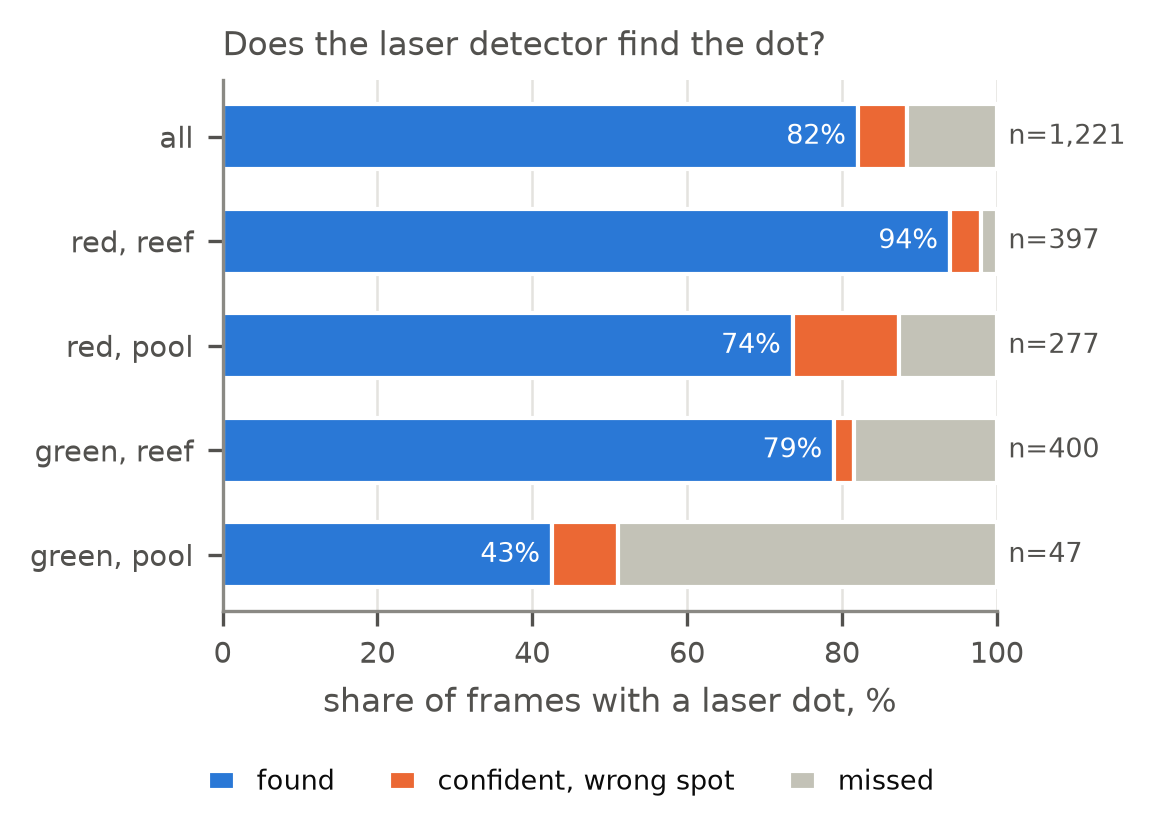
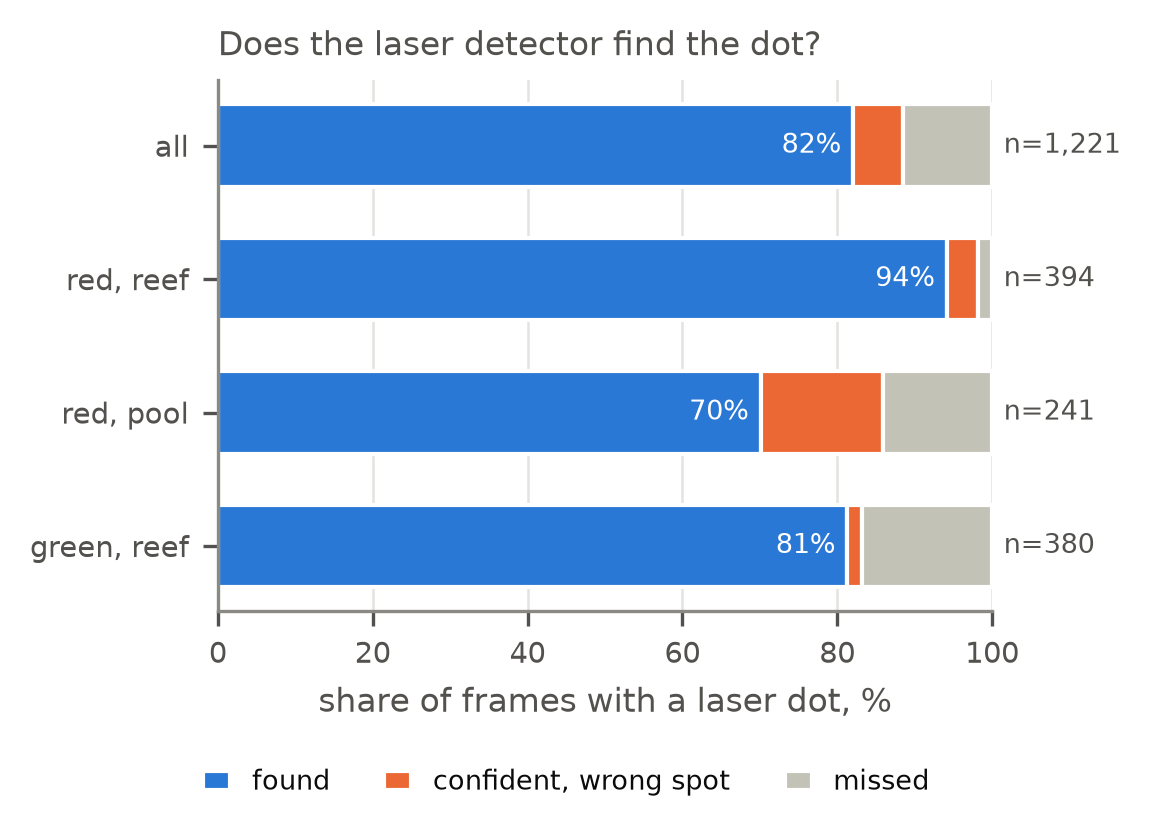
analysis: task 3d, red vs green laser detection controlled for camera, environment and time
Colour is assigned per dive. T3's green-pool cell was minority green labels in
red pool dives; Fig 11 drops it and p2-results.md T3 carries a correction.

diff --git a/analysis/codesign/redgreen.py b/analysis/codesign/redgreen.py
@@ -1,0 +1,146 @@
+"""Task 3d: does green's higher miss rate survive control for camera, environment and time?
+
+Reuses T3's production-detector run (laser_detection_analysis/predictions.csv, condition
+"production", the colour withheld as in production), scored against human dots drawn without a
+pre-fill (fishsense_cscw.laser_detection.load). No new detector runs.
+
+The red -> green switch was staggered by camera (timeline.yaml), so red and green dives overlap in
+time and site. Three comparisons, each a green-minus-red difference in the share of dot frames
+with each outcome (missed, found, confident-wrong):
+
+  raw        all dot frames
+  stratified Mantel-Haenszel risk difference over strata that contain both colours:
+               camera x environment
+               camera x environment x half-year of capture
+  window     raw, restricted to the stagger window (2024-03 .. 2024-12, both colours in the fleet)
+
+95% intervals resample whole dives (frames in a dive share a rig, site and labeller), 2,000 draws.
+Capture date is the dive's camera clock (data/db_extracts/dives.psv, sql/extract_dives.sql).
+environment is T3's keyword heuristic on the dive path (pool / reef / other).
+
+Colour is assigned per dive, not per frame: a dive is red or green when >=90% of all its laser labels
+(data/db_extracts/dive_laser_colour.psv) are that colour, and only frames whose own label agrees are
+kept. T3 used the per-frame label; that version is kept as the first row for reference. The
+difference matters: T3's sample took every green pool frame, and 45 of its 47 sit in pool dives
+whose labels are 68-99% red (mostly the 2023-08-29 sessions). Whether those minority labels are
+colour errors or a green laser used in a red session is unknown (questions.md), so they are dropped
+rather than assigned.
+
+Not controlled: range to the dot, exposure, water clarity, which green product (Shark or Orca Torch;
+unrecorded per dive), fish. The sample is T3's stratified sample (capped at 12 frames per dive per
+cell), so the raw rates are sample rates, not fleet rates.
+
+Writes analysis/codesign/results/redgreen.csv and redgreen_strata.csv.
+Run: uv run python analysis/codesign/redgreen.py
+"""
+from __future__ import annotations
+
+import numpy as np
+import pandas as pd
+
+from fishsense_cscw.laser_detection import load
+from fishsense_cscw.paths import REPO
+
+OUT = REPO / "analysis/codesign/results"
+OUTCOMES = ("missed", "found", "confident-wrong")
+WINDOW = ("2024-03-01", "2025-01-01")
+N_BOOT = 2000
+
+
+def frames() -> pd.DataFrame:
+    d = load()
+    d = d[(d.condition == "production") & d.has_dot & d.wavelength.isin(["red", "green"])].copy()
+    dives = pd.read_csv(REPO / "data/db_extracts/dives.psv", sep="|", header=None,
+                        names=["dive_id", "camera_id_db", "dive_datetime"])
+    dives["captured"] = pd.to_datetime(dives.dive_datetime, utc=True)
+    d = d.merge(dives[["dive_id", "camera_id_db", "captured"]], on="dive_id", how="left")
+    assert d.captured.notna().all() and (d.camera_id == d.camera_id_db).all()
+    col = pd.read_csv(REPO / "data/db_extracts/dive_laser_colour.psv", sep="|", header=None,
+                      names=["dive_id", "red_labels", "green_labels"])
+    share = col.green_labels / (col.red_labels + col.green_labels)
+    col["dive_colour"] = np.select([share >= 0.9, share <= 0.1], ["green", "red"], "mixed")
+    d = d.merge(col[["dive_id", "dive_colour"]], on="dive_id", how="left")
+    d["half"] = d.captured.dt.year.astype(str) + "H" + np.where(d.captured.dt.month <= 6, "1", "2")
+    d["green"] = d.wavelength == "green"
+    for o in OUTCOMES:
+        d[o] = d.outcome == o
+    return d
+
+
+def by_dive_colour(d: pd.DataFrame) -> pd.DataFrame:
+    """Frames whose label colour matches their dive's colour (drops mixed dives and minority labels)."""
+    return d[d.wavelength == d.dive_colour]
+
+
+def raw_diff(d: pd.DataFrame, o: str) -> float:
+    return d.loc[d.green, o].mean() - d.loc[~d.green, o].mean()
+
+
+def mh_diff(d: pd.DataFrame, o: str, by: list[str]) -> float:
+    """Mantel-Haenszel risk difference, green - red, over strata holding both colours."""
+    num = den = 0.0
+    for _, g in d.groupby(by):
+        n1, n0 = g.green.sum(), (~g.green).sum()
+        if n1 == 0 or n0 == 0:
+            continue
+        w = n1 * n0 / (n1 + n0)
+        num += w * (g.loc[g.green, o].mean() - g.loc[~g.green, o].mean())
+        den += w
+    return num / den if den else np.nan
+
+
+def informative(d: pd.DataFrame, by: list[str]) -> pd.DataFrame:
+    """The frames in strata that hold both colours (what the stratified estimate uses)."""
+    k = d.groupby(by).green.transform(lambda s: s.any() and not s.all())
+    return d[k]
+
+
+def boot(d: pd.DataFrame, stat, seed: int = 0) -> tuple[float, float]:
+    rng = np.random.default_rng(seed)
+    groups = {k: g for k, g in d.groupby("dive_id")}
+    keys = np.array(list(groups))
+    vals = []
+    for _ in range(N_BOOT):
+        s = pd.concat([groups[k] for k in rng.choice(keys, len(keys))], ignore_index=True)
+        vals.append(stat(s))
+    return tuple(np.nanpercentile(vals, [2.5, 97.5]))
+
+
+def main():
+    t3 = frames()
+    d = by_dive_colour(t3)
+    print(f"dive-level colour keeps {len(d)} of {len(t3)} frames; dropped:",
+          t3[t3.wavelength != t3.dive_colour].groupby(["wavelength", "dive_colour"]).size().to_dict())
+    w = d[(d.captured >= WINDOW[0]) & (d.captured < WINDOW[1])]
+    designs = [
+        ("raw, per-frame label colour (T3)", t3, lambda s, o: raw_diff(s, o)),
+        ("raw", d, lambda s, o: raw_diff(s, o)),
+        ("camera x environment", informative(d, ["camera_id", "environment"]),
+         lambda s, o: mh_diff(s, o, ["camera_id", "environment"])),
+        ("camera x environment x half-year", informative(d, ["camera_id", "environment", "half"]),
+         lambda s, o: mh_diff(s, o, ["camera_id", "environment", "half"])),
+        ("stagger window 2024-03..2024-12", w, lambda s, o: raw_diff(s, o)),
+    ]
+    rows = []
+    for name, s, f in designs:
+        for o in OUTCOMES:
+            lo, hi = boot(s, lambda x, o=o: f(x, o))
+            rows.append(dict(design=name, outcome=o, green_minus_red=f(s, o), ci_lo=lo, ci_hi=hi,
+                             red_rate=s.loc[~s.green, o].mean(), green_rate=s.loc[s.green, o].mean(),
+                             n_red=int((~s.green).sum()), n_green=int(s.green.sum()),
+                             dives_red=s.loc[~s.green, "dive_id"].nunique(),
+                             dives_green=s.loc[s.green, "dive_id"].nunique()))
+    R = pd.DataFrame(rows)
+    strata = (d.groupby(["camera_id", "environment", "half", "wavelength"])
+               .agg(frames=("missed", "size"), dives=("dive_id", "nunique"), missed=("missed", "mean"),
+                    found=("found", "mean"), confident_wrong=("confident-wrong", "mean"))
+               .reset_index())
+    OUT.mkdir(parents=True, exist_ok=True)
+    R.to_csv(OUT / "redgreen.csv", index=False, float_format="%.4f")
+    strata.to_csv(OUT / "redgreen_strata.csv", index=False, float_format="%.4f")
+    pd.set_option("display.width", 200)
+    print(R.round(3).to_string(index=False))
+
+
+if __name__ == "__main__":
+    main()

diff --git a/figures/make_figures.py b/figures/make_figures.py
@@ -390,12 +390,21 @@ def _t3_dots():
 
 
 def fig11_laser_recall():
-    """Does the detector find the dot? Outcome per laser colour and setting."""
+    """Does the detector find the dot? Outcome per laser colour and setting.
+
+    Colour is the dive's (>=90% of its laser labels, as in analysis/codesign/redgreen.py), and a
+    frame counts under a colour only if its own label agrees. There is no green pool row: T3's 47
+    "green, pool" frames were minority labels in red pool dives, and 2 survive."""
     T3, d = _t3_dots()
-    groups = [("all", d), ("red, reef", d[(d.wavelength == "red") & (d.environment == "reef")]),
-              ("red, pool", d[(d.wavelength == "red") & (d.environment == "pool")]),
-              ("green, reef", d[(d.wavelength == "green") & (d.environment == "reef")]),
-              ("green, pool", d[(d.wavelength == "green") & (d.environment == "pool")])]
+    col = pd.read_csv(REPO / "data/db_extracts/dive_laser_colour.psv", sep="|", header=None,
+                      names=["dive_id", "red_labels", "green_labels"])
+    share = col.green_labels / (col.red_labels + col.green_labels)
+    col["dive_colour"] = np.select([share >= 0.9, share <= 0.1], ["green", "red"], "mixed")
+    c = d.merge(col[["dive_id", "dive_colour"]], on="dive_id", how="left")
+    c = c[c.wavelength == c.dive_colour]
+    groups = [("all", d), ("red, reef", c[(c.wavelength == "red") & (c.environment == "reef")]),
+              ("red, pool", c[(c.wavelength == "red") & (c.environment == "pool")]),
+              ("green, reef", c[(c.wavelength == "green") & (c.environment == "reef")])]
     parts = [("found", "found", BLUE), ("confident-wrong", "confident, wrong spot", ORANGE), ("missed", "missed", "#c3c2b7")]
     fig, a = plt.subplots(figsize=(ONE, 2.3))
     y = np.arange(len(groups))[::-1]

diff --git a/analysis/codesign/questions.md b/analysis/codesign/questions.md
@@ -81,29 +81,35 @@ Sections A-D are what is still open.
      dot shape in the images might identify the product, but that would be an inference. I'd use it
      only with your sign-off.
    - Was red always the Innovative Scuba pointer?
-2. **For analysis 3f:**
+2. **Green labels in red 2023 dives (found by task 3d).** The 2023-08-29 pool dives (59, 61-63,
+   65, 66, 71, 77, 80, 83) have 1-32% green laser labels, and a few 2023 reef dives have some too.
+   Was a green laser used alongside red in those sessions (dive 83 is 32% green, dive 77 20%), or are
+   these colour mislabels? Until answered, task 3d drops them. Either way, T3's "green, pool" cell
+   (n=47) was almost entirely these frames, and the PAPER.md / p2-results.md sentences built on it
+   need correcting.
+3. **For analysis 3f:**
    - which cameras had PLA vs aluminium mounts, and from when;
    - any known repairs, knocks or replacement mounts, by camera and date.
 
    The DB has no mount field, and no dive note mentions a repair. Without this list, 3f can only
    compare cameras before and after a date you give.
-3. **TG-6 -> TG-7 for FSL-08+ (Jan 2025):** availability, cost, or a sensing reason?
-4. **Slate pose predictor:** when was it retired, and why? (Inferred from the auto-accept commit:
+4. **TG-6 -> TG-7 for FSL-08+ (Jan 2025):** availability, cost, or a sensing reason?
+5. **Slate pose predictor:** when was it retired, and why? (Inferred from the auto-accept commit:
    confident false fits passed the ECC gate. Driver currently machine, medium confidence.)
-5. **Label Studio "Calibration Targets" branch (2026-07-21)** and **checkerboard calibration
+6. **Label Studio "Calibration Targets" branch (2026-07-21)** and **checkerboard calibration
    automation (2026-09-08):** why?
-6. **Labelling starts and campaigns:**
+7. **Labelling starts and campaigns:**
    - Why did laser (2024-10), head/tail (2025-04), species (2025-10) and slate-corner (2025-11)
      labelling start when they did?
    - Why the 2025-10/11 campaigns that pre-filled earlier *human* labels?
    - Which model produced the 38 prediction-seeded laser annotations in 2024-11?
-7. **Pipeline:**
+8. **Pipeline:**
    - What drove services/database (2024-10), the data-processing workers (2025-03), and moving
      the remaining stages onto Temporal (2026-05..09)?
    - Did core 3.0.0 -> 4.0.0 (2026-09-16) change anything that matters here?
-8. **Isolated green-laser dives in 2023** (dive 242, 2023-10-19; dive 253, named "102724_..." but
+9. **Isolated green-laser dives in 2023** (dive 242, 2023-10-19; dive 253, named "102724_..." but
    dated 2023-10-27): test dives or camera-clock errors?
-9. **When was the per-dive calibration plan adopted?** Before 2023-08-01 is all the record shows.
+10. **When was the per-dive calibration plan adopted?** Before 2023-08-01 is all the record shows.
    When was the first partner unit shipped?
 
 ## C. Open decisions (the author's, not mine)

diff --git a/analysis/codesign/ai_use.md b/analysis/codesign/ai_use.md
@@ -68,6 +68,9 @@ Paths are relative to the repository root unless prefixed with a sibling reposit
 | 2026-10-06 | Design-revision timeline (`analysis/codesign/timeline.yaml`) from DB, git history, Temporal and author statements | analysis + prose | assistant draft; drivers from author answers | this commit (analysis: co-design timeline...) |
 | 2026-10-06 | Claim inventory / evidence map (`analysis/codesign/claims.yaml`) | prose | assistant draft | this commit (analysis: co-design timeline...) |
 | 2026-10-06 | Open questions (`analysis/codesign/questions.md`) and this log | prose | assistant | this commit (analysis: co-design timeline...) |
+| 2026-10-06 | Per-dive capture date and laser-colour extracts (`sql/extract_dives.sql`, `sql/extract_dive_laser_colour.sql` -> `data/db_extracts/dives.psv`, `dive_laser_colour.psv`), read-only on the restored DB | data extract | assistant | e5ebebfd |
+| 2026-10-06 | Task 3d red vs green, controlled for camera, environment and time (`analysis/codesign/redgreen.py` -> `results/redgreen*.csv`) | analysis | assistant | this commit (analysis: task 3d...) |
+| 2026-10-06 | Fig 11 switched to dive-level laser colour (green-pool row removed); correction note on T3 in p2-results.md | figure + prose | assistant | this commit (analysis: task 3d...) |
 
 Work in sibling repositories that the paper relies on is AI-assisted too, and needs its own entries before submission:
 - slate detector (2026-10-03_slate_detector);

diff --git a/p2-results.md b/p2-results.md
@@ -232,6 +232,14 @@ inflate it.
 
 ## T3 — laser-detector recall: 0.821, green missed 4× as often, pool hardest
 
+> **Correction (2026-10-06, task 3d, `analysis/codesign/redgreen.py`):** the colour split below uses
+> each frame's own label. With colour assigned per dive (≥90% of the dive's laser labels), 45 of the
+> 47 "green, pool" frames turn out to be minority green labels in red pool dives (mostly
+> 2023-08-29), so there is no usable green-pool cell. Green is missed 16.8% vs 5.7% for red
+> (+11 pt, CI +5..+18), and the gap holds within camera × environment (+16 pt). Red draws more
+> confident wrong points, so recall differs less (0.814 vs 0.856, CI includes zero). Current
+> figures: `analysis/codesign/claims.yaml`.
+
 Production checkpoint (sha256 verified) on 1,571 frames across 249 dives, scored against
 **unseeded** human dots. The detector always returns a point, so "present" means
 confidence ≥ 0.5, the threshold in its config.
